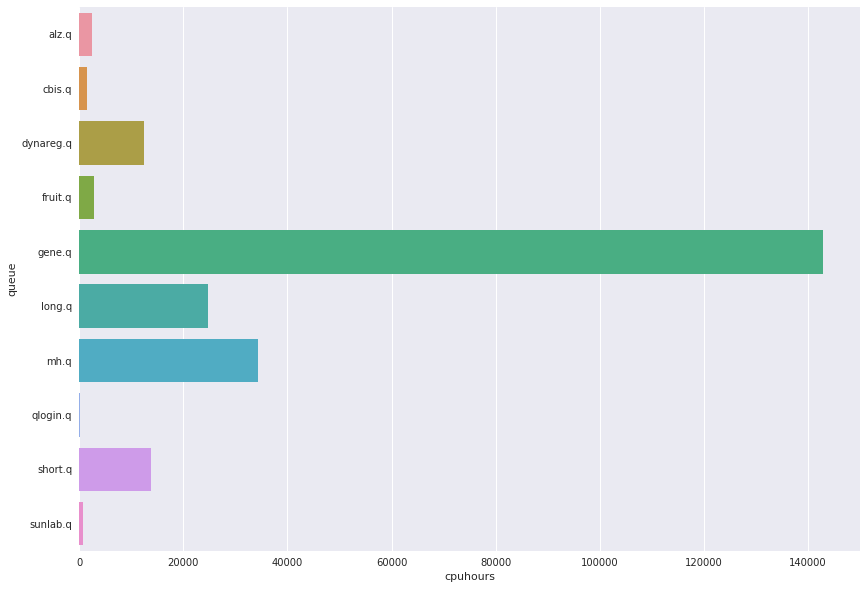
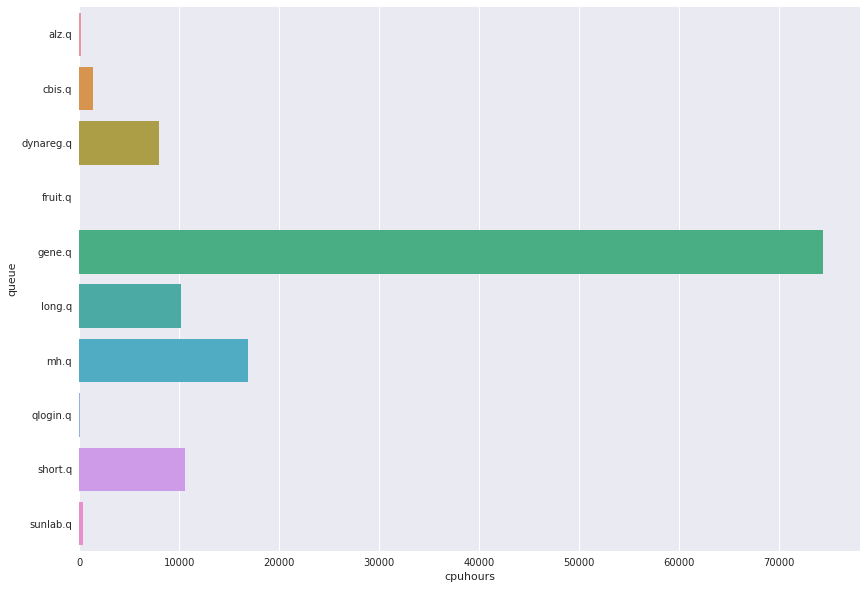
corrected queue hours

diff --git a/cdag_mtg-20190114.md b/cdag_mtg-20190114.md
@@ -12,16 +12,16 @@
 
 Queue | CPU Hours | CPU hour prev
 ---------:|:-----------|:------------
-alz.q|2336|581
-cbis.q|207|251
-dynareg.q|4499|16596
-fruit.q|2852|10157
-gene.q|68502|71683
-long.q|14552|13108
-mh.q|17489|16574
-qlogin.q|20|82
-short.q|3178|22812
-sunlab.q|378|205
+alz.q|2537|2336|581
+cbis.q|1551|207|251
+dynareg.q|12509|4499|16596
+fruit.q|2854|2852|10157
+gene.q|142891|68502|71683
+long.q|24727|14552|13108
+mh.q|34380|17489|16574
+qlogin.q|77|20|82
+short.q|13758|3178|22812
+sunlab.q|774|378|205
 
 
 ### Top 10 Accounts for Cluster Usage, December
